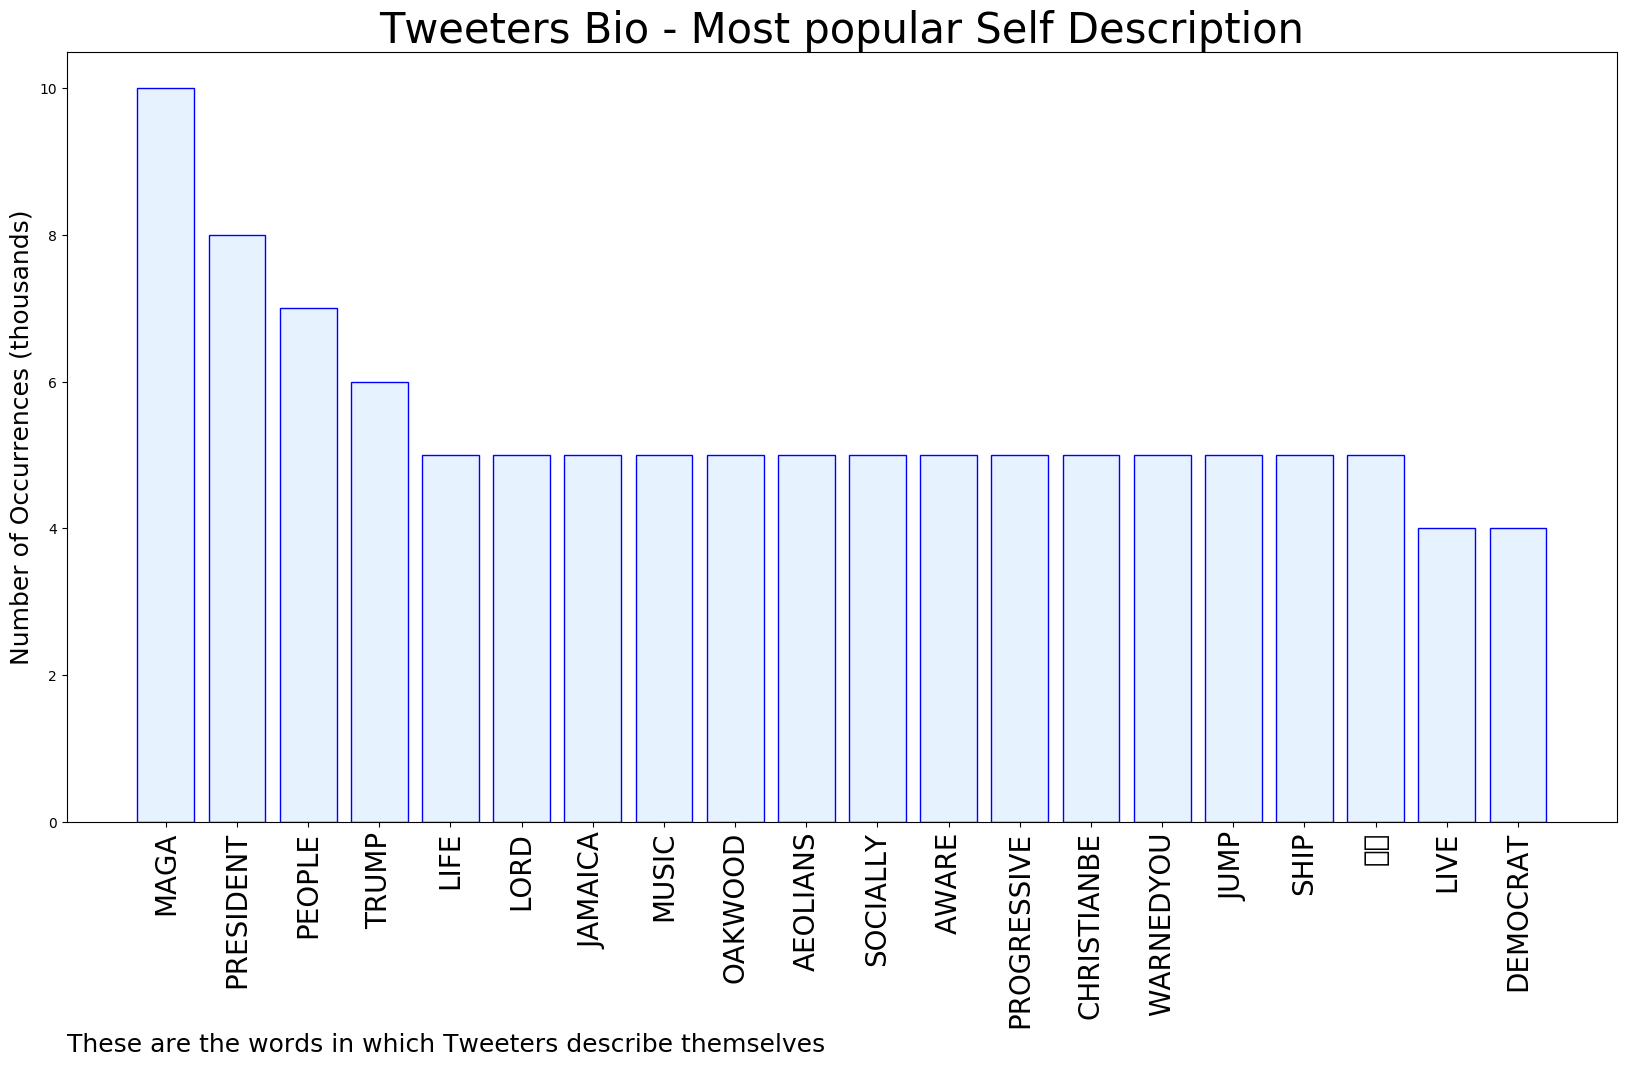
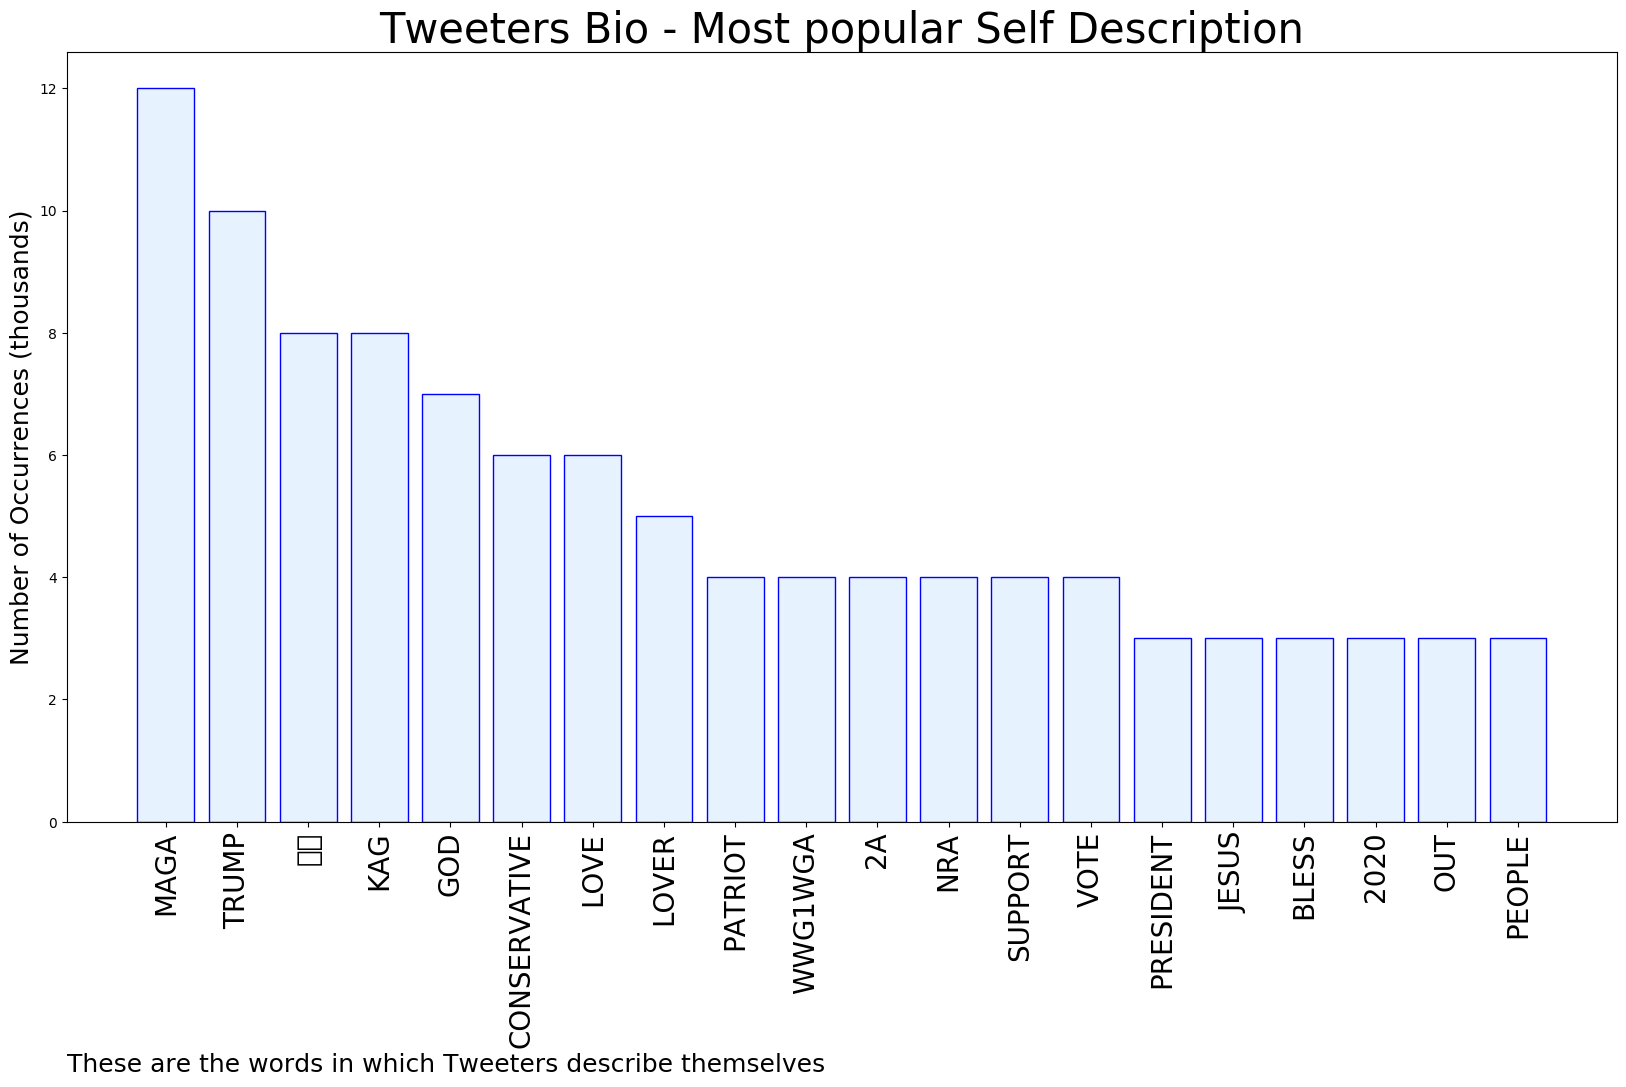
Updating with latest report

diff --git a/README.md b/README.md
@@ -15,23 +15,18 @@
 
 |                **Sample-Tweets**        |
 | :-------------: |
-| <div class="alert alert-block alert-warning">RT @AFunnyValentine: ☑ ANOTHER Accomplishment👊TRUMP has flipped the '9th CIRCUS' Court appointing 10 JUDGES.⚡Causing the intended 'shock…</div> <div class="alert alert-block alert-success">RT @DonaldJTrumpJr: Solid point! Why was Bernie briefed about Russian interference with his campaign but we weren’t?We were much further…</div> <div class="alert alert-block alert-info">RT @SevereAnon: @Solmemes1 congrats!!This is YUGE!!</div> |
-The most popular user is: **RonHatcher8**
-<div class="alert alert-block alert-danger"> RT @DavidJHarrisJr: Look at who I ran into last night! 
-
-And @AGwilliamBarr watches my show? 
-
-Are you kidding me!!! 🙌🏽🇺🇸💪🏽
-@realDonaldTrum…</div>
+| <div class="alert alert-block alert-warning">RT @IsraelUSAforevr: @realDonaldTrump God bless you President Trump https://t.co/2XU6Np0Aim</div> <div class="alert alert-block alert-success">@realDonaldTrump "If a free society cannot help the many who are poor, it cannot save the few who are rich". Think… https://t.co/IKPq2Y2fOW</div> <div class="alert alert-block alert-info">@realDonaldTrump This tweet is as obvious as a kid denying he ate all the choclate. https://t.co/aecNUuMpjC</div> |
+The most popular user is: **EmeraldFire1967**
+<div class="alert alert-block alert-danger"> RT @realDonaldTrump: The Democrat party is the party of high taxes, high crime, open borders, late-term abortion, socialism, blatant corrup…</div>
 
 ## RELATED METRICS<br>
 | Metric | Value |
 | ------------- | ------------- |
 | #1 Most tweeted to  | **realDonaldTrump** |
 | #2 Most tweeted to  | **FoxNews** |
-| #3 Most tweeted to  | **DonaldJTrumpJr** |
-| NewProfiles (less than 10 days) | 1.0%  |
-| Tweeters with < 10 followers  | 8.0%|
+| #3 Most tweeted to  | **michaelbeatty3** |
+| NewProfiles (less than 10 days) | 0.0%  |
+| Tweeters with < 10 followers  | 7.0%|
 | Tweeters with > 1000000 followers  | 0.0%  |
 
 
@@ -43,34 +38,26 @@ Are you kidding me!!! 🙌🏽🇺🇸💪🏽
 | ------------- | ------------- |
 | first  | **@REALDONALDTRUMP**  |
 | second  | **@FOXNEWS**  |
-| third  | **TRUMP** |
-| fourth  | **PRESIDENT**  |
-| fifth  | **DAY**  |
+| third  | **BERNIE** |
+| fourth  | **TRUMP**  |
+| fifth  | **MOST**  |
 
 
 ## Twitter Bio Analysis![image](BIO.png)
 ### SENTIMENT ANALYSIS
 ![image](sentiment.png)
-VIEWS WERE : **SUBJECTIVE**  (26.67%) & **NEGATIVELY-SUBJECTIVE** (20.0%) **OBJECTIVE** (53.33%)
+VIEWS WERE : **SUBJECTIVE**  (33.33%) & **NEGATIVELY-SUBJECTIVE** (6.67%) **OBJECTIVE** (60.0%)
 
 ### TWEET SAMPLE 
 Random value picked from array: 
 
-<div class="alert alert-block alert-info">RT @AFunnyValentine: ☑ ANOTHER Accomplishment
-👊TRUMP has flipped the '9th CIRCUS' Court appointing 10 JUDGES.
-
-⚡Causing the intended 'shock…</div>
+<div class="alert alert-block alert-info">RT @IsraelUSAforevr: @realDonaldTrump God bless you President Trump https://t.co/2XU6Np0Aim</div>
 
 ### MOST RETWEETED 
 
-The most retweeted user is: **RonHatcher8**
+The most retweeted user is: **EmeraldFire1967**
 
-<div class="alert alert-block alert-danger"> RT @DavidJHarrisJr: Look at who I ran into last night! 
-
-And @AGwilliamBarr watches my show? 
-
-Are you kidding me!!! 🙌🏽🇺🇸💪🏽
-@realDonaldTrum…</div>
+<div class="alert alert-block alert-danger"> RT @realDonaldTrump: The Democrat party is the party of high taxes, high crime, open borders, late-term abortion, socialism, blatant corrup…</div>
 
 ### CONCLUSION & EXTERNAL ANALYSIS
 
